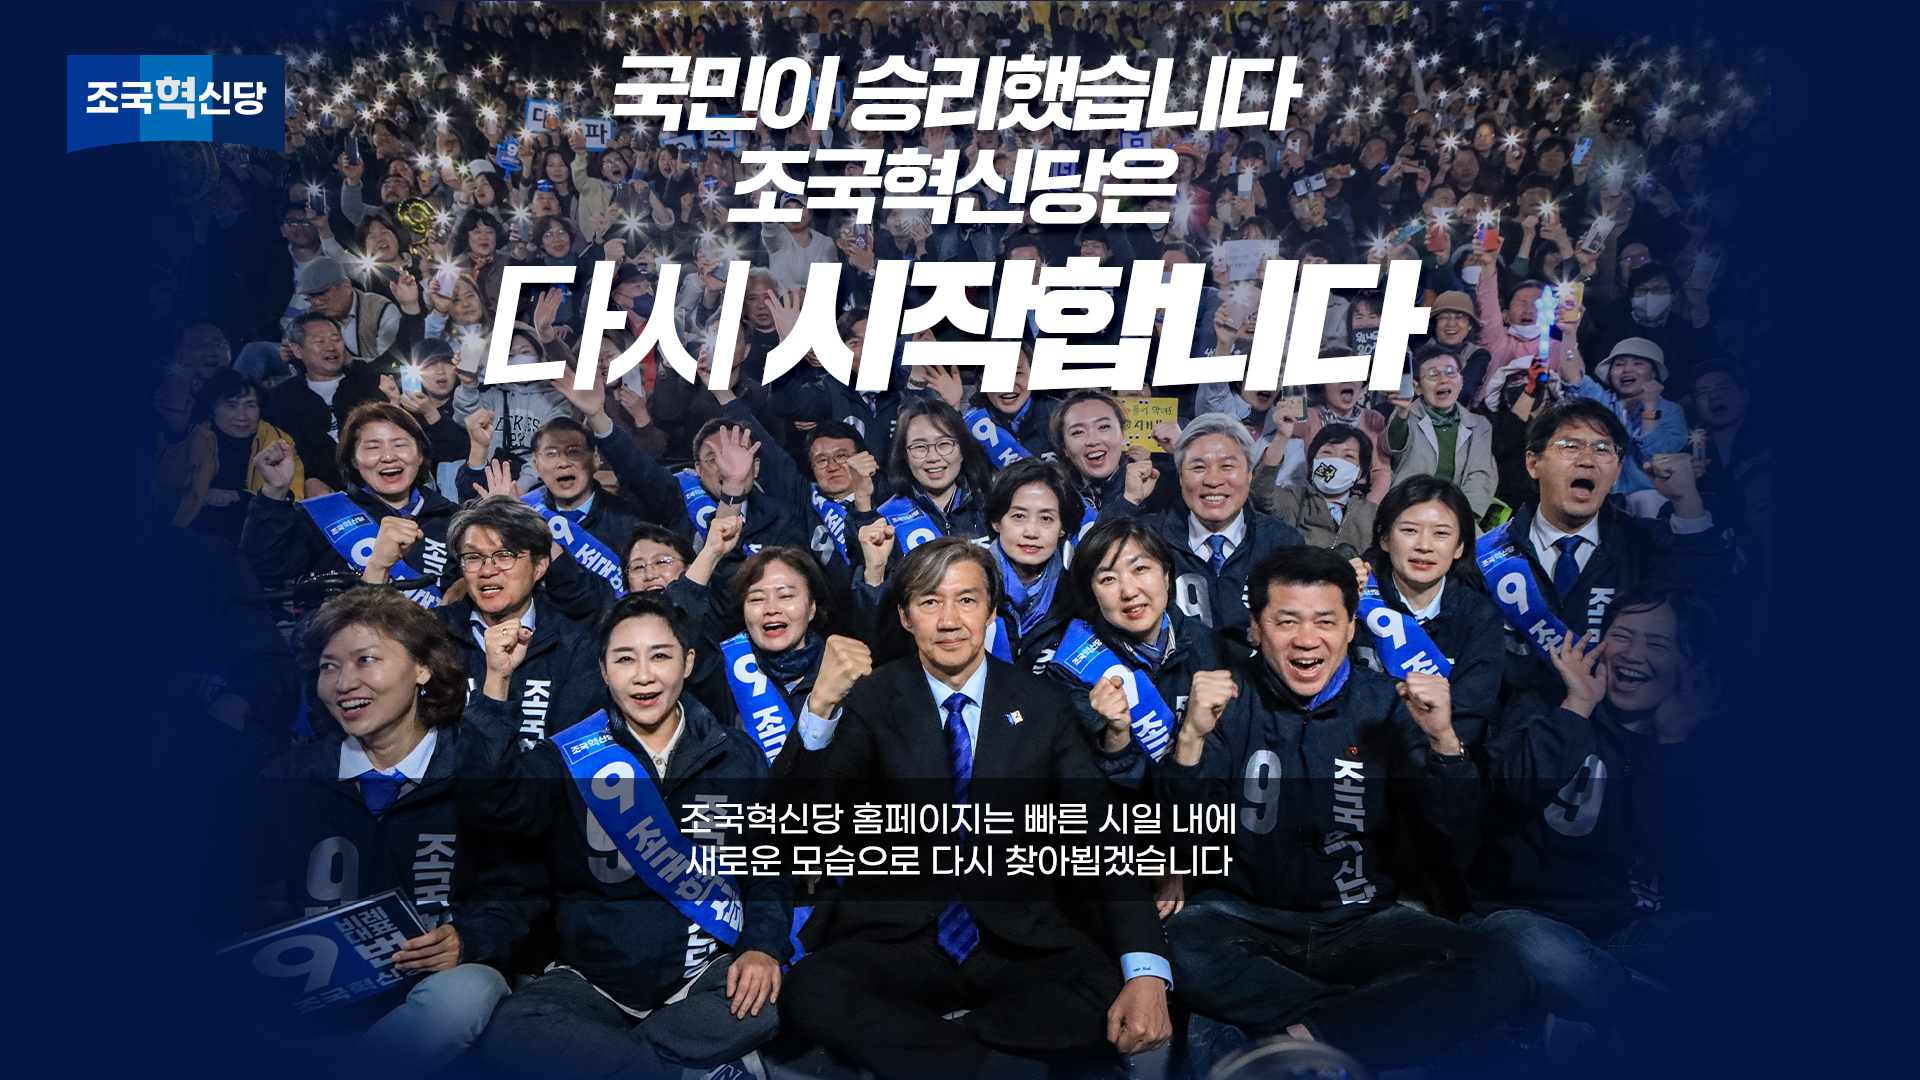
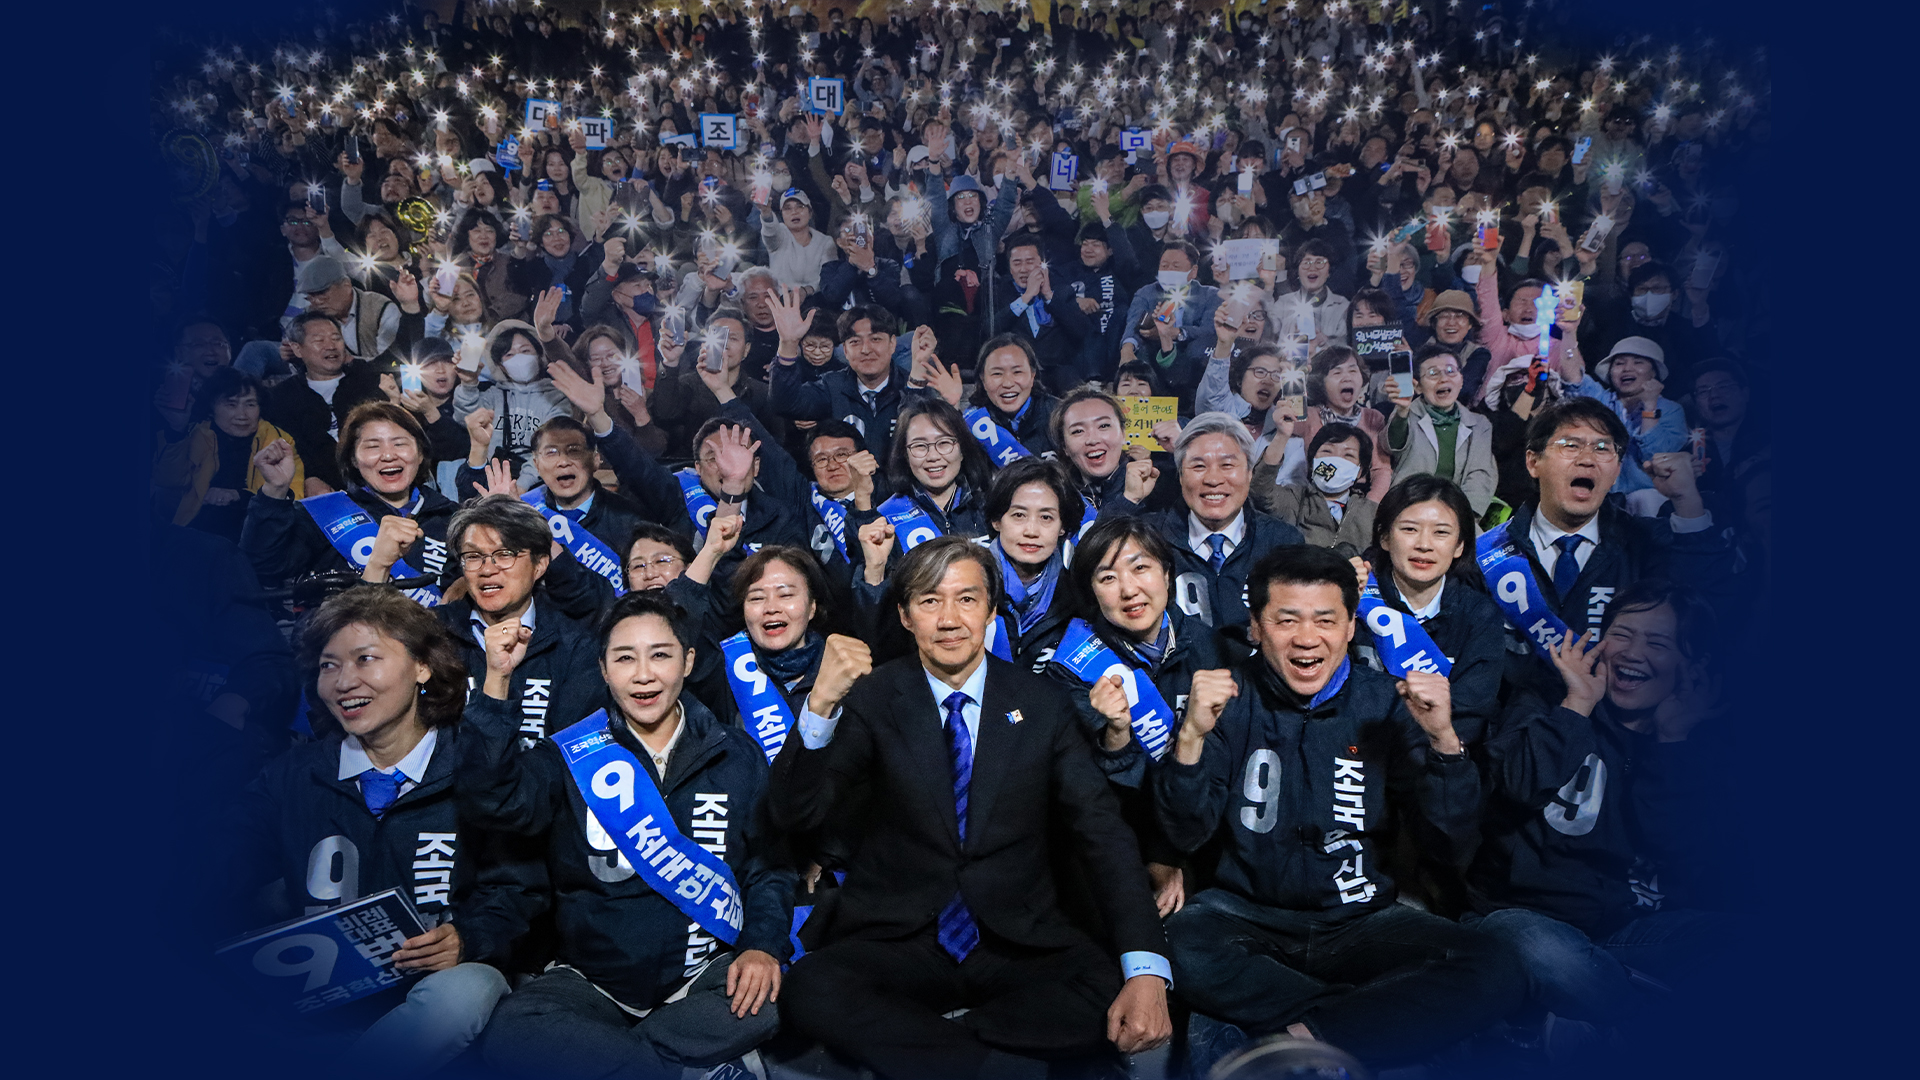
fix(rbk): 화면 수정

diff --git a/index.html b/index.html
@@ -71,16 +71,17 @@
       href="/images/favicon/apple-touch-icons/icon-180x180.png"
     />
 
+    <link rel="preconnect" href="https://fonts.googleapis.com" />
+    <link rel="preconnect" href="https://fonts.gstatic.com" crossorigin />
     <link
+      href="https://fonts.googleapis.com/css2?family=Noto+Sans+KR:wght@100..900&display=swap"
       rel="stylesheet"
-      as="style"
-      crossorigin
-      href="https://cdn.jsdelivr.net/gh/orioncactus/pretendard@v1.3.9/dist/web/variable/pretendardvariable.min.css"
     />
+    <link rel="stylesheet" href="main.css" />
     <script src="https://cdn.tailwindcss.com"></script>
   </head>
   <body
-    class="flex h-full select-auto flex-col font-sans text-gray-900 antialiased dark:bg-gray-800 dark:text-gray-100"
+    class="flex h-full select-auto flex-col text-gray-900 antialiased dark:bg-gray-800 dark:text-gray-100"
   >
     <!-- <header class="absolute inset-x-0 top-0 z-50">
     <nav class="flex items-center justify-between p-6 lg:px-8" aria-label="Global">
@@ -98,42 +99,29 @@
     </nav>
   </header> -->
 
-    <div class="w-full h-full relative isolate overflow-hidden pt-14">
+    <div class="w-full h-full relative isolate overflow-hidden pt-4 sm:pt-14">
       <img
         src="images/bg.jpg"
         alt=""
         class="absolute inset-0 -z-10 h-[calc(100%-60px)] w-full object-cover"
       />
+      <img
+        src="images/logo.png"
+        alt="logo"
+        class="pl-4 sm:pl-14 sm:h-20 h-12"
+      />
       <div
-        class="absolute inset-x-0 -top-40 -z-10 transform-gpu overflow-hidden blur-3xl sm:-top-80"
-        aria-hidden="true"
+        class="w-full text-center absolute top-24 sm:top-32 lg:top-6 flex justify-center"
       >
-        <div
-          class="relative left-[calc(50%-11rem)] aspect-[1155/678] w-[36.125rem] -translate-x-1/2 rotate-[30deg] bg-gradient-to-tr from-[#ff80b5] to-[#9089fc] opacity-20 sm:left-[calc(50%-30rem)] sm:w-[72.1875rem]"
-          style="
-            clip-path: polygon(
-              74.1% 44.1%,
-              100% 61.6%,
-              97.5% 26.9%,
-              85.5% 0.1%,
-              80.7% 2%,
-              72.5% 32.5%,
-              60.2% 62.4%,
-              52.4% 68.1%,
-              47.5% 58.3%,
-              45.2% 34.5%,
-              27.5% 76.7%,
-              0.1% 64.9%,
-              17.9% 100%,
-              27.6% 76.8%,
-              76.1% 97.7%,
-              74.1% 44.1%
-            );
-          "
-        ></div>
+        <img
+          src="images/title.png"
+          alt="title"
+          class="lg:w-[90%] object-cover max-w-max w-[150%]"
+        />
       </div>
-
-      <div class="fixed bottom-12 inset-x-0 mx-auto max-w-2xl py-4 sm:py-24">
+      <div
+        class="fixed bottom-24 sm:bottom-12 inset-x-0 mx-auto max-w-5xl py-4 sm:py-24"
+      >
         <div class="hidden sm:mb-8 sm:flex sm:justify-center">
           <div
             class="relative rounded-full px-3 py-1 text-sm leading-6 text-gray-100 ring-1 ring-white/50 hover:ring-white/50 hidden"
@@ -141,7 +129,7 @@
             새로운 사이트를 준비중에 있습니다.
           </div>
         </div>
-        <div class="text-center">
+        <div class="text-center w-full">
           <h1
             class="text-4xl font-bold tracking-tight text-white sm:text-6xl hidden"
           >
@@ -153,7 +141,13 @@
             가장 처음부터 가장 마지막까지
           </p>
           <div
-            class="mt-10 flex flex-col sm:flex-row gap-y-2 items-center justify-center gap-x-6 px-6 sm:px-0"
+            class="bg-black bg-opacity-50 py-3 w-full text-white text-lg sm:text-2xl font-meidum"
+          >
+            조국혁신당 홈페이지는 빠른 시일 내에<br />새로운 모습으로 다시
+            찾아뵙겠습니다
+          </div>
+          <div
+            class="mt-4 sm:mt-10 flex flex-col sm:flex-row gap-y-2 items-center justify-center gap-x-6 px-6 sm:px-0"
           >
             <a
               href="/application-and-resignation-for-membership.html"
@@ -169,51 +163,23 @@
         </div>
       </div>
 
-      <div
-        class="absolute inset-x-0 top-[calc(100%-13rem)] -z-10 transform-gpu overflow-hidden blur-3xl sm:top-[calc(100%-30rem)]"
-        aria-hidden="true"
-      >
-        <div
-          class="relative left-[calc(50%+3rem)] aspect-[1155/678] w-[36.125rem] -translate-x-1/2 bg-gradient-to-tr from-[#ff80b5] to-[#9089fc] opacity-20 sm:left-[calc(50%+36rem)] sm:w-[72.1875rem]"
-          style="
-            clip-path: polygon(
-              74.1% 44.1%,
-              100% 61.6%,
-              97.5% 26.9%,
-              85.5% 0.1%,
-              80.7% 2%,
-              72.5% 32.5%,
-              60.2% 62.4%,
-              52.4% 68.1%,
-              47.5% 58.3%,
-              45.2% 34.5%,
-              27.5% 76.7%,
-              0.1% 64.9%,
-              17.9% 100%,
-              27.6% 76.8%,
-              76.1% 97.7%,
-              74.1% 44.1%
-            );
-          "
-        ></div>
-      </div>
-
       <footer class="fixed bottom-0 bg-white p-3 sm:p-5 w-full">
         <div class="mx-auto flex items-start gap-x-4 sm:gap-x-10">
           <a href="/"
             ><img
-              src="/images/logo.png"
+              src="images/logo.png"
               alt="footer-logo"
-              class="w-auto h-5 sm:h-9"
+              class="w-auto h-7 sm:h-9"
           /></a>
           <div class="flex-1 sm:space-y-1 sm:text-xs text-[10px]">
             <div>
-              서울특별시 영등포구 국회대로 70길 15-1, (여의도동, 극동VIP빌딩)
-              제4층 제403호
+              서울특별시 영등포구 국회대로 70길 15-1,<br class="sm:hidden" />
+              (여의도동, 극동VIP빌딩) 제4층 제403호
             </div>
             <div>
-              고유번호 : 217-82-87052 | 전화번호 : 02-335-0410 | 팩스번호 :
-              02-335-0412
+              고유번호 : 217-82-87052 | 전화번호 : 02-335-0410 |<br
+                class="sm:hidden"
+              />팩스번호 : 02-335-0412
             </div>
             <div>Copyright © 2024 조국혁신당. All Rights Reserved.</div>
           </div>

diff --git a/main.css b/main.css
@@ -1,0 +1,3 @@
+body {
+  font-family: "Noto Sans KR", sans-serif;
+}
